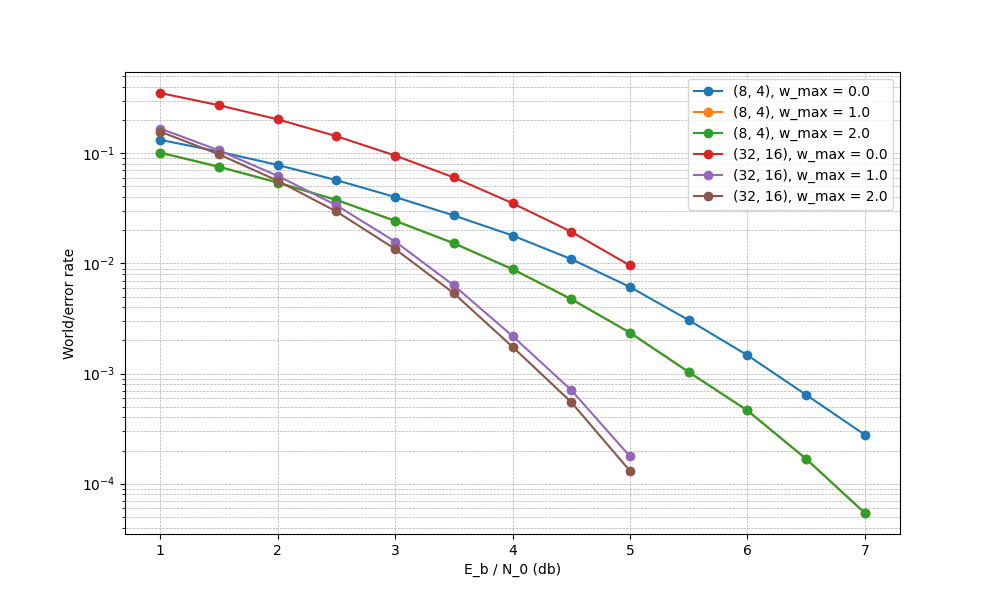
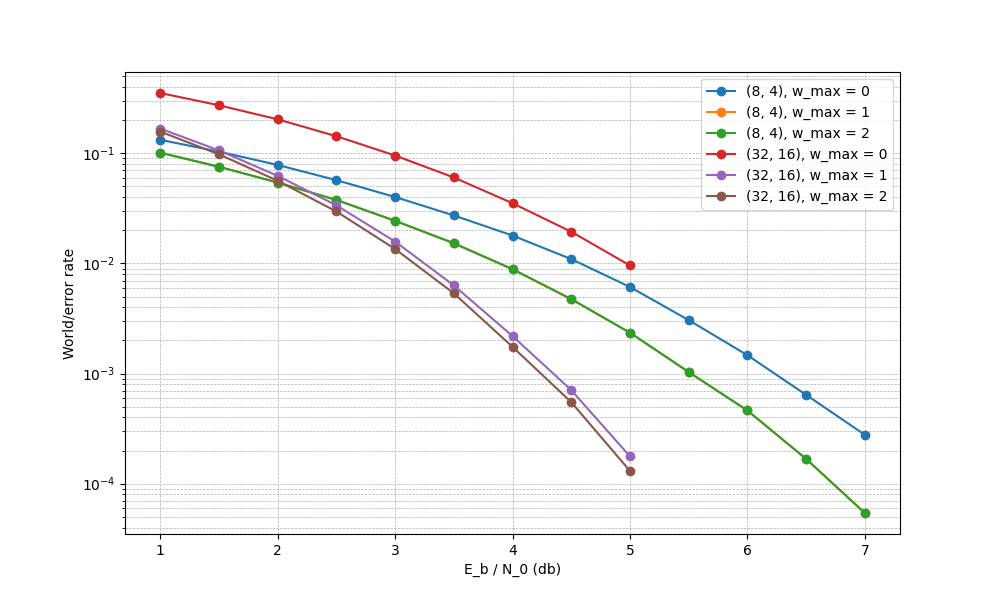
Fix graph bug

Changed region(s): [[0.682, 0.12, 0.899, 0.36]]

diff --git a/graph.py b/graph.py
@@ -11,7 +11,7 @@ def read_data(filename):
 
             block_info = list(map(int, line.split()))
 
-            w_max = float(file.readline().strip())
+            w_max = int(file.readline().strip())
 
             points = []
             while True:
